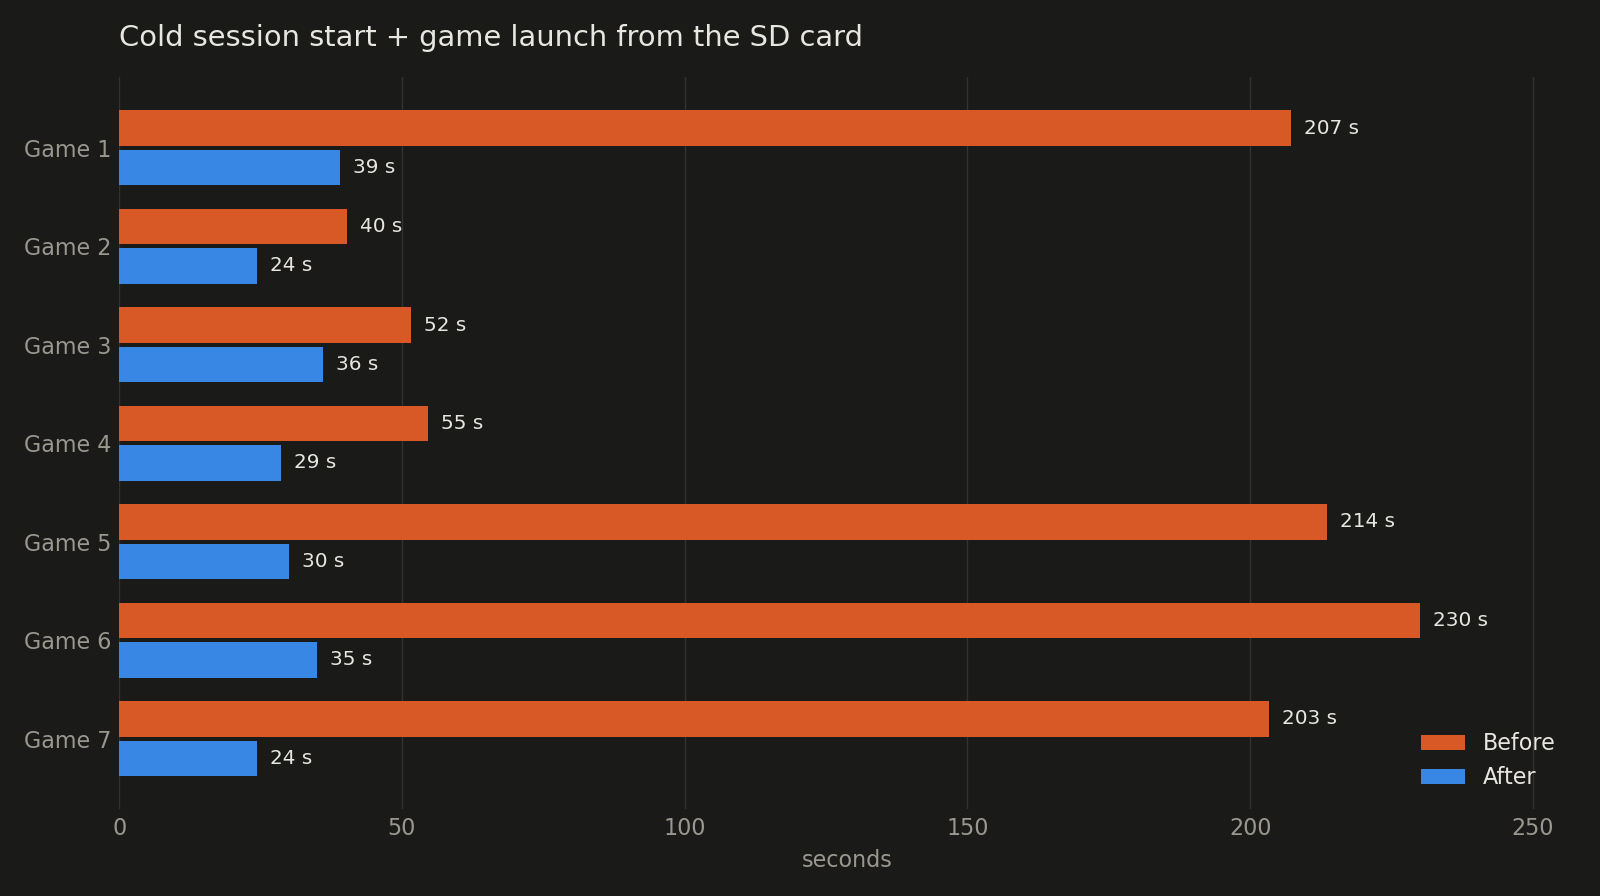
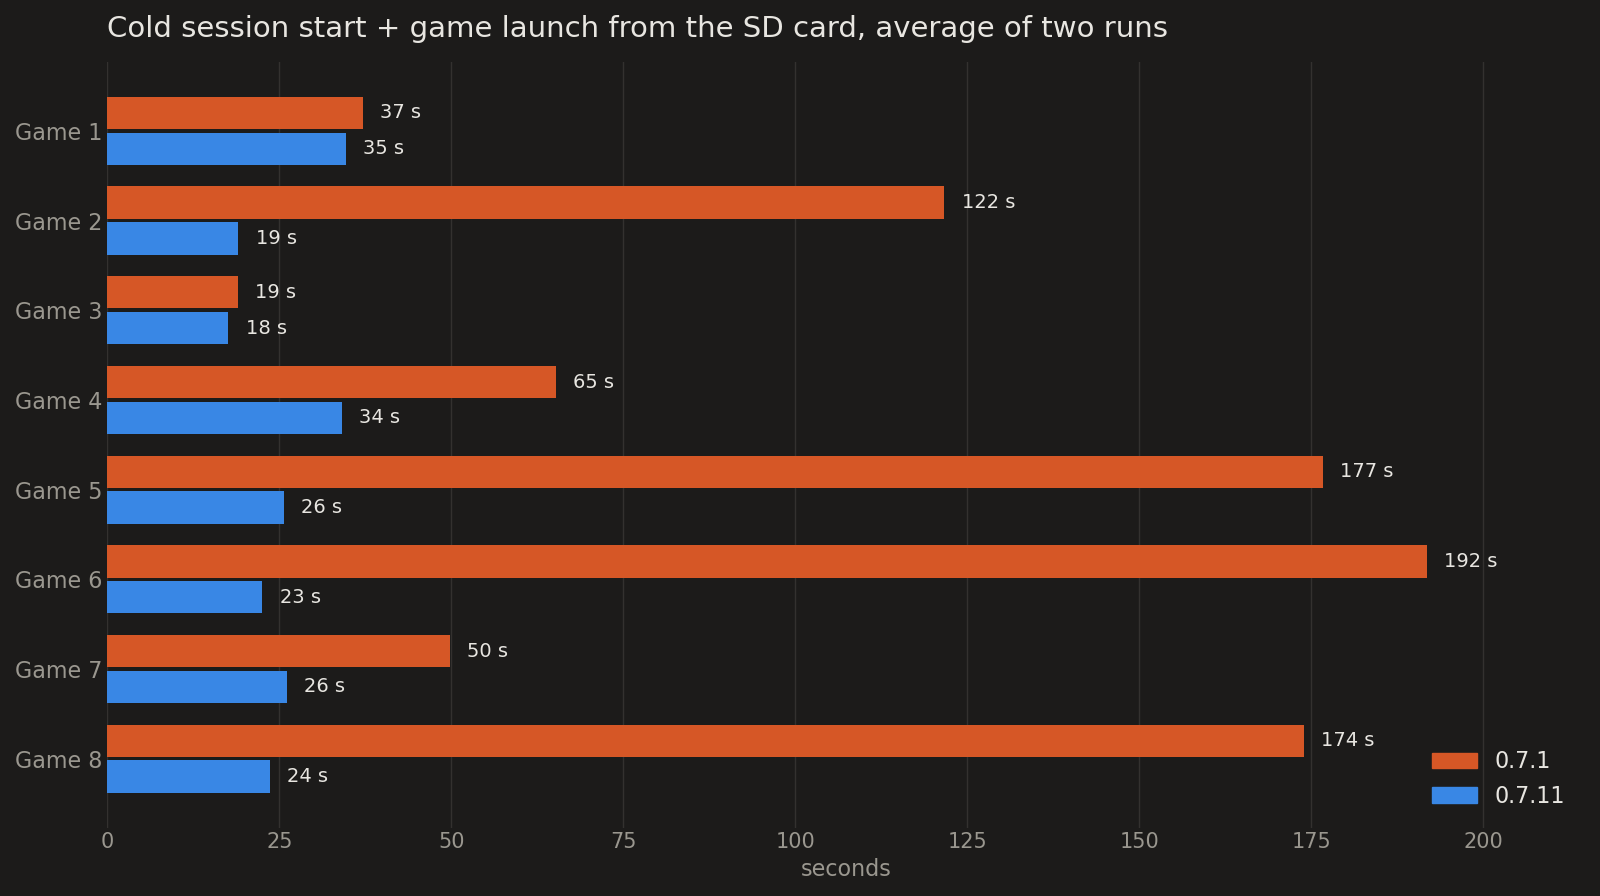
docs: measured memory card start times for 0.7.11

diff --git a/docs/releases/0.7.11.md b/docs/releases/0.7.11.md
@@ -16,7 +16,7 @@ Since 0.7.1, **30 people** sent **263 pull requests**, and **15 of them were fir
 ### What’s in store
 
 - **Three new stores: EA, Ubisoft Connect and Rockstar Games.** Sign in, browse, download and play without their launchers, with cloud saves for EA and Ubisoft
-- **Games on a memory card start in seconds, not minutes:** a cold session start plus game launch that took up to 230 s now takes 24 to 39 s, and installs to the card are faster too
+- **Games on a memory card start in seconds, not minutes:** a cold session start plus game launch averaged 104 s on 0.7.1, up to 192 s, and now takes 18 to 35 s, and installs to the card are faster too
 - **Per-game frame generation and screen effects**, plus integer scaling, SMAA and black frame insertion
 - **Run without proot (experimental):** an opt-in mode that runs Steam, games and the desktop straight on Android
 - **Your tabs, your way:** reorder, shelve or hide any tab, and Setup is now **Settings**, with search and one home for every setting
@@ -67,9 +67,9 @@ Since 0.7.1, **30 people** sent **263 pull requests**, and **15 of them were fir
 
 ### Improvements
 
-- **Much faster games on a memory card.** DroidDeck no longer walks every game folder on the card at each session start and launch: a session start after a game was played or updated took 182 s and now takes 9.3 s. Steam’s file checks on the card are answered from a cache, so a 3,800-file install went from 261 s to 183.5 s, and programs on the card begin loading in 13.7 s instead of 18.5 s. Reserving space, verifying and installing no longer drop to a slow path after one unsupported call. (@maxjivi05, [#2533](https://github.com/Droid-Deck/DroidDeck/pull/2533), [#2881](https://github.com/Droid-Deck/DroidDeck/pull/2881), [#2553](https://github.com/Droid-Deck/DroidDeck/pull/2553), [#2509](https://github.com/Droid-Deck/DroidDeck/pull/2509), [#2379](https://github.com/Droid-Deck/DroidDeck/pull/2379), [#2504](https://github.com/Droid-Deck/DroidDeck/pull/2504))
+- **Much faster games on a memory card.** DroidDeck no longer walks every game folder on the card at each session start and launch: on 0.7.1 a cold session start took anywhere from 7 s to 170 s, over 100 s on 7 of 16 starts, and it now takes 7 to 9 s every time. Across eight games on the card, cold start plus launch went from an average of 104 s to 25 s. Steam’s file checks on the card are answered from a cache, so a 3,800-file install went from 261 s to 183.5 s, and programs on the card begin loading in 13.7 s instead of 18.5 s. Reserving space, verifying and installing no longer drop to a slow path after one unsupported call. (@maxjivi05, [#2533](https://github.com/Droid-Deck/DroidDeck/pull/2533), [#2881](https://github.com/Droid-Deck/DroidDeck/pull/2881), [#2553](https://github.com/Droid-Deck/DroidDeck/pull/2553), [#2509](https://github.com/Droid-Deck/DroidDeck/pull/2509), [#2379](https://github.com/Droid-Deck/DroidDeck/pull/2379), [#2504](https://github.com/Droid-Deck/DroidDeck/pull/2504))
 
-<p align="center"><img src="media/0.7.11/sd-card-game-start.png" width="45%" alt="Bar chart of a cold session start plus game launch from the SD card for seven games: 207, 40, 52, 55, 214, 230 and 203 seconds before, 39, 24, 36, 29, 30, 35 and 24 seconds after"> <img src="media/0.7.11/sd-card-install-steps.png" width="45%" alt="Bar chart of SD card library steps before and after: reserving space 68.9 to 27.5 seconds, commit 150.9 to 104.0, whole install 261.0 to 183.5, move from internal to card 156.8 to 121.7, reserving space for a second program 33.9 to 12.5, and uninstall 12.3 to 9.2"></p>
+<p align="center"><img src="media/0.7.11/sd-card-game-start.png" width="45%" alt="Bar chart of a cold session start plus game launch from the SD card for eight games, average of two runs: 37, 122, 19, 65, 177, 192, 50 and 174 seconds on 0.7.1, 35, 19, 18, 34, 26, 23, 26 and 24 seconds on 0.7.11"> <img src="media/0.7.11/sd-card-install-steps.png" width="45%" alt="Bar chart of SD card library steps before and after: reserving space 68.9 to 27.5 seconds, commit 150.9 to 104.0, whole install 261.0 to 183.5, move from internal to card 156.8 to 121.7, reserving space for a second program 33.9 to 12.5, and uninstall 12.3 to 9.2"></p>
 
 - **Memory is managed automatically.** Sessions reclaim memory from what Android actually reports, react to a fast fall on large-RAM devices before Android kills the session, keep the session on top on dual screens under pressure, and no longer compress Steam after every game start when there is enough memory. This fixes sessions killed with gigabytes still free, such as a 15 GB AYN Thor Max with 5.3 GB available, and 5 to 10 s freezes every 30 s on 11 to 12 GB devices. The four manual memory settings under Performance (RAM cap, VRAM cap and the two compression switches) are removed. (@maxjivi05, @xXJSONDeruloXx, [#2853](https://github.com/Droid-Deck/DroidDeck/pull/2853), [#2382](https://github.com/Droid-Deck/DroidDeck/pull/2382), [#2754](https://github.com/Droid-Deck/DroidDeck/pull/2754), [#2763](https://github.com/Droid-Deck/DroidDeck/pull/2763), [#2335](https://github.com/Droid-Deck/DroidDeck/pull/2335), [#2347](https://github.com/Droid-Deck/DroidDeck/pull/2347), [#2758](https://github.com/Droid-Deck/DroidDeck/pull/2758))
 - **Cooler steady games:** a game that holds a steady 30 fps or more for 3 s moves off the fastest cores, and the busiest game threads get a boost on every Snapdragon 8 Elite phone, not only the Odin 3. (@xXJSONDeruloXx, @Tapuuk, [#2572](https://github.com/Droid-Deck/DroidDeck/pull/2572), [#2608](https://github.com/Droid-Deck/DroidDeck/pull/2608))
